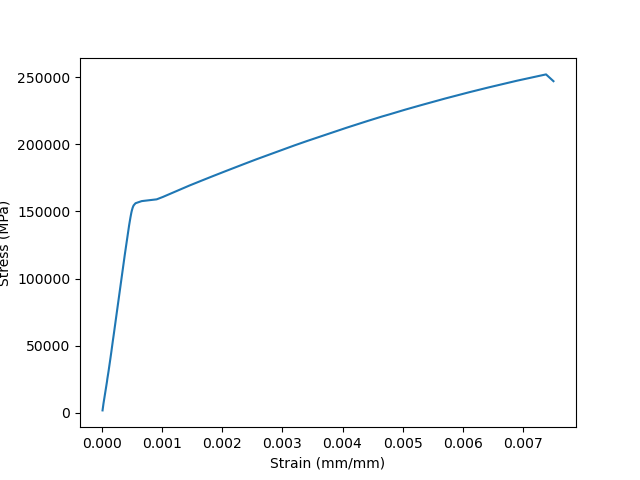
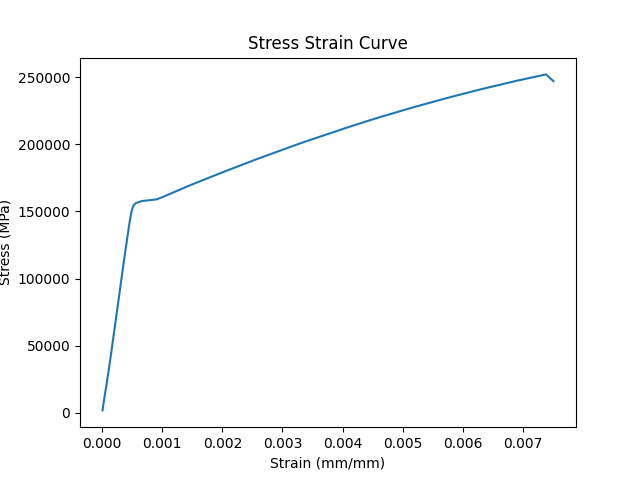
all 12 tests pass

diff --git a/analysis.py b/analysis.py
@@ -1,34 +1,63 @@
-#!/usr/bin/env python
-# coding: utf-8
+# analysis.py
 
-# In[1]:
-
-
-# analysis.ipynb
+from pathlib import Path
 
 import numpy as np
 import pandas as pd
 import matplotlib.pyplot as plt
 
-raw_data_df = pd.read_csv('data/raw_data.csv')
+def import_data(f_path):
+    df = pd.read_csv(f_path)
+    np_raw_array = np.array(df)
+    return np_raw_array
+   
 
-raw_data_array = np.array(raw_data_df)
-cleaned_data_array = raw_data_array[1:,:]
+def clean_data(raw_np_array):
+    np_array = raw_np_array[1:, :]
+    return np_array
 
-d = 0.506
-A0 = np.pi*(d/2)**2
-F = cleaned_data_array[:,4]
-stress = F/A0
-strain = cleaned_data_array[:,5]*0.01
-ts = np.max(stress)
-te = np.max(strain)-np.min(strain)
-print(f'Tensile Strength={ts}')
-print(f'Total Extension={te}')
 
-fig, ax = plt.subplots()
-ax.plot(strain,stress)
-ax.set_xlabel("Strain (mm/mm)")
-ax.set_ylabel("Stress (MPa)")
-plt.savefig("plot.png")
-plt.show()
+def get_stress_and_strain(cleaned_data_array):
+    d = 0.506
+    A0 = np.pi * (d / 2) ** 2
+    F = cleaned_data_array[:, 4]
+    stress = F / A0
+    strain = cleaned_data_array[:, 5] * 0.01
+    return stress, strain
 
+
+def plot(x, y, title, x_label, y_label, f_name):
+    fig, ax = plt.subplots()
+    ax.plot(x, y)
+    ax.set_title(title)
+    ax.set_xlabel(x_label)
+    ax.set_ylabel(y_label)
+    plt.savefig(f_name)
+    plt.show()
+    return fig, ax
+
+
+def get_tensile_strength(stress, strain):
+    return np.max(stress).round(3)
+
+
+def get_total_extension(stress, strain):
+    return np.max(strain) - np.min(strain)
+
+
+def main():
+    raw_data_path = Path(Path.cwd(),"data","raw_data.csv")
+    raw_data_array = import_data(raw_data_path)
+    clean_data_array = clean_data(raw_data_array)
+    stress, strain = get_stress_and_strain(clean_data_array)
+    title = "Stress Strain Curve"
+    xlabel = "Strain (mm/mm)"
+    ylabel = "Stress (MPa)"
+    f_name = 'plot.png'
+    plot(strain, stress, title, xlabel, ylabel, f_name)
+    ts = get_tensile_strength(stress, strain)
+    te = get_total_extension(stress, strain)
+    print(f"Tensile Strength: {ts}, Total Extension: {te}")
+
+if __name__ == "__main__":
+    main()

diff --git a/tests/test_plot.py b/tests/test_plot.py
@@ -1,22 +1,14 @@
-# test_plot.py
-
-import os
-from pathlib import Path
+# tests/test_plot.py
 
 import pytest
 import numpy as np
+import matplotlib
 
 import analysis
 
 x = np.array([1, 2, 3])
 y = np.array([6, 7, 10])
-fig, ax = analysis.plot(x, y, "my_title", "my_x_axis_label", "my_y_axis_label")
-
-
-def test_tensile_strength():
-    expected = 10.0
-    actual = analysis.get_tensile_strength(y, x)
-    assert round(expected, 3) == round(actual, 3)
+fig, ax = analysis.plot(x, y, "my_title", "my_x_axis_label", "my_y_axis_label","plot.png")
 
 
 def test_plot_x_axis_label():
@@ -29,3 +21,7 @@ def test_plot_y_axis_label():
 
 def test_plot_title_label():
     assert ax.title.get_text() == "my_title"
+
+
+def test_figure_object():
+    assert type(fig) == matplotlib.figure.Figure

diff --git a/tests/test_analysis.py b/tests/test_analysis.py
@@ -1,0 +1,20 @@
+# tests/test_analysis.py
+
+import pytest
+import numpy as np
+
+import analysis
+
+x = np.array([1, 2, 3])
+y = np.array([6, 7, 10])
+
+
+def test_tensile_strength():
+    expected = 10.0
+    actual = analysis.get_tensile_strength(y, x)
+    assert round(expected, 3) == round(actual, 3)
+
+def test_total_extension():
+    expected = 3 - 1
+    actual = analysis.get_total_extension(y, x)
+    assert round(expected, 3) == round(actual, 3)

diff --git a/tests/test_dependancies.py b/tests/test_dependancies.py
@@ -1,10 +1,5 @@
 # test_dependancies.py
 
-import platform
-import sys
-
-import pytest
-
 import numpy as np
 import pandas as pd
 import matplotlib as mpl

diff --git a/tests/test_python_version.py b/tests/test_python_version.py
@@ -1,4 +1,4 @@
-# test_python_version.py
+# tests/test_python_version.py
 
 from pathlib import Path
 import platform
